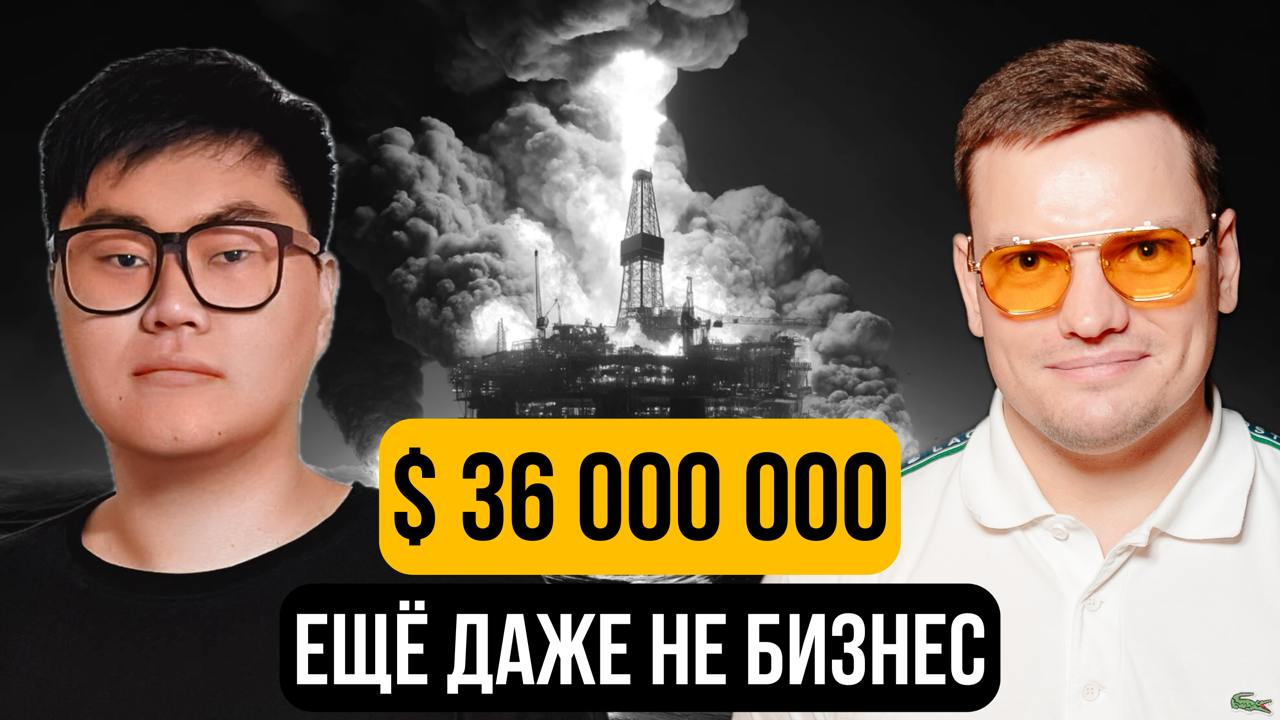
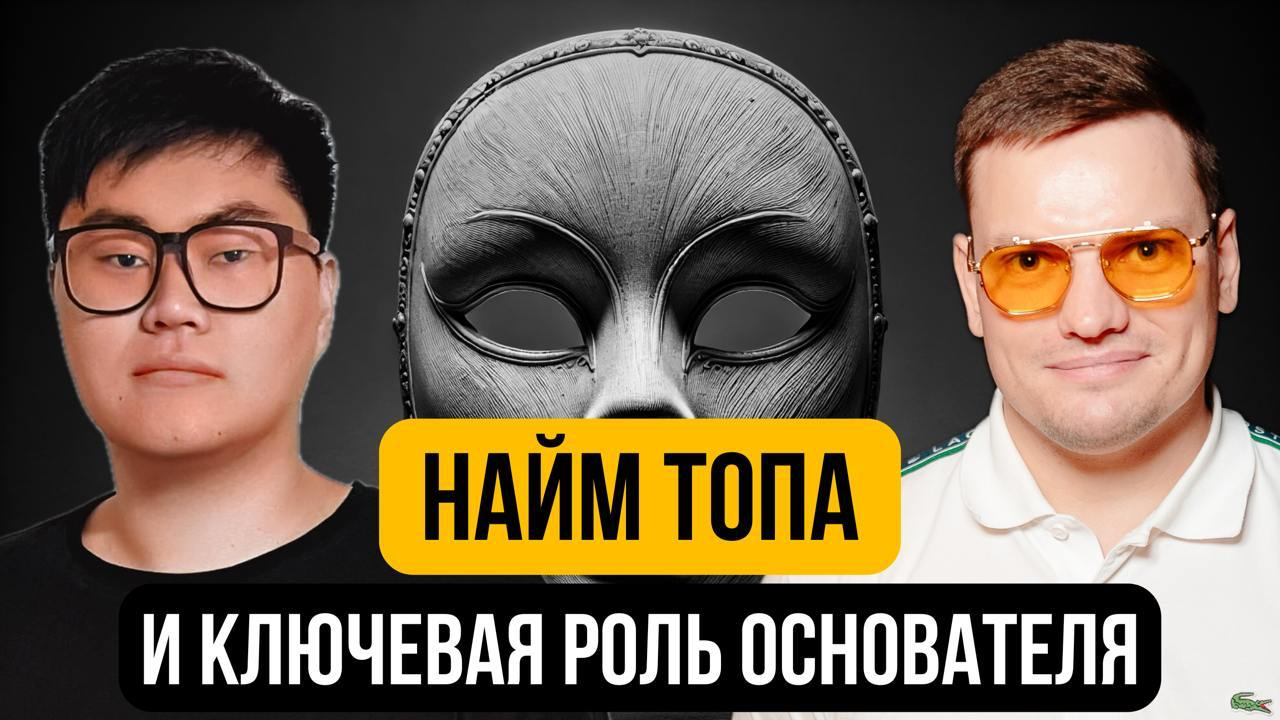
upd

diff --git a/index.html b/index.html
@@ -133,7 +133,7 @@
     </div>
 </section>
 
-<!--
+
 <section data-bs-version="5.1" class="slider01 mbr-embla progressm5 cid-ufFCl6ZCRs" id="slider01-w">
     <div class="container">
         <div class="row">
@@ -170,7 +170,7 @@
             <div class="modalWindow-container">
                 <div class="modalWindow-video-container">
                     <div class="modalWindow-video">
-                        <iframe width="100%" height="100%" frameborder="0" allowfullscreen="1" data-src="https://youtu.be/V0BrQ57jGPc&amp;loop=1&amp;autoplay=1"></iframe>
+                        <iframe width="100%" height="100%" frameborder="0" allowfullscreen="1" data-src="https://youtu.be/MZZbqBNy1qc&amp;loop=1&amp;autoplay=1"></iframe>
                     </div>
                     <a class="close" role="button" data-dismiss="modal" data-bs-dismiss="modal">
                         <span aria-hidden="true" class="mbr-iconfont mobi-mbri-close mobi-mbri closeModal"></span>
@@ -181,7 +181,7 @@
         </div>
     </div>
 </section>
--->
+
 
 <section data-bs-version="5.1" class="video01 header01 mbr-embla progressm5 cid-ufFCdVvmil" id="header01-b">
     <div class="container">
@@ -1352,17 +1352,17 @@
             <div class="item features-image col-12 col-lg-4">
                 <div class="item-wrapper">
                     <div class="item-wrap">
-                        <a href="https://youtu.be/qfDv084mBuU" target="_blank">
+                        <a href="https://youtu.be/4OSnMFFtGIs" target="_blank">
                         <div class="item-img">
                             <div class="image-wrap">
                                 <img src="assets/images/preview2.jpg" alt="INI GROUP">
                             </div>
                             <div class="item-content">
                                 <h4 class="item-title mbr-fonts-style display-4">
-                                    Бизнес или гипотеза
+                                    Роль основателя, найм лучших и делегирование
                                 </h4>
                                 <p class="item-text mbr-fonts-style display-4">
-                                    Почему одни делают бизнес, а другие не могут идею придумать...
+                                    Как эволюционирует роль основателя, почему так важно понимать свою основную компетенцию
                                 </p>
                             </div>
                         </div>
@@ -1373,17 +1373,17 @@
             <div class="item features-image col-12 col-lg-4">
                 <div class="item-wrapper">
                     <div class="item-wrap">
-                        <a href="https://youtu.be/FV69nmr7iis" target="_blank">
+                        <a href="https://youtu.be/HGaAaT_sFZM" target="_blank">
                         <div class="item-img">
                             <div class="image-wrap">
                                 <img src="assets/images/preview3.jpg" alt="INI GROUP">
                             </div>
                             <div class="item-content">
                                 <h4 class="item-title mbr-fonts-style display-4">
-                                    Когда основателю стоит нанимать продакта
+                                    Как отрезать 90% рутинных задач и увеличить прибыль? 
                                 </h4>
                                 <p class="item-text mbr-fonts-style display-4">
-                                    На старте проекта каждый основатель сталкивается с вопросом...
+                                    Как сфокусироваться на главном и резко сократить «возню», не дающую реального роста
                                 </p>
                             </div>
                         </div>

diff --git a/assets/cssup/css/mbr-additional-1.css b/assets/cssup/css/mbr-additional-1.css
@@ -5078,7 +5078,7 @@ img,
   position: absolute;
   bottom: -1px;
   left: 0;
-  background-image: linear-gradient(0deg, #060606 7%, transparent 98%);
+  background-image: linear-gradient(0deg, #060606 7%, transparent 60%);
 }
 .cid-ufFCl6ZCRs .embla__slide .slide-content .item-wrapper .item-img .item-wrap {
  

diff --git a/assets/cssup/css/mbr-additional.css b/assets/cssup/css/mbr-additional.css
@@ -5035,7 +5035,7 @@ img,
   position: absolute;
   bottom: -1px;
   left: 0;
-  background-image: linear-gradient(0deg, #060606 7%, transparent 98%);
+  background-image: linear-gradient(0deg, #060606 7%, transparent 60%);
 }
 .cid-ufFCl6ZCRs .embla__slide .slide-content .item-wrapper .item-img .item-wrap {
  
